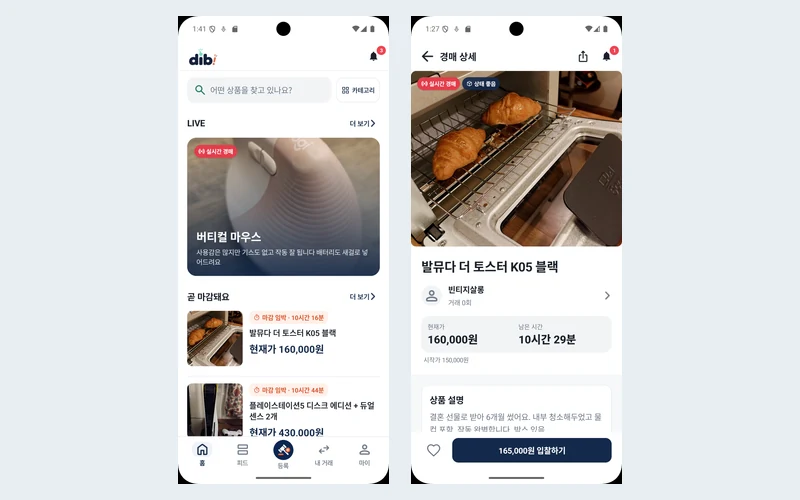
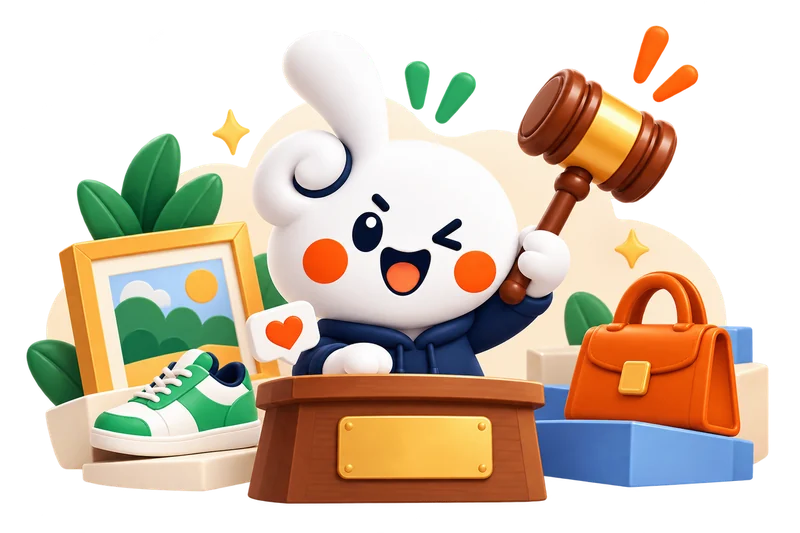
style: feature project artwork without borders

diff --git a/index.html b/index.html
@@ -5,7 +5,7 @@
   <meta name="viewport" content="width=device-width, initial-scale=1">
   <meta name="color-scheme" content="only light">
   <title>윤정 · 포트폴리오</title>
-  <link rel="stylesheet" href="./profile.css?v=17">
+  <link rel="stylesheet" href="./profile.css?v=18">
 </head>
 <body>
   <main>
@@ -120,7 +120,7 @@
         </header>
         <div class="project-overview">
           <div class="project-preview">
-            <img src="./assets/projects/soomgil/route.webp" alt="제주도 여행 장소와 손으로 그린 경로를 표시한 숨길 공동 일정 지도" loading="lazy">
+            <img src="./assets/projects/soomgil/preview.webp" alt="궁궐 야경을 배경으로 한 숨길의 여행 서비스 배너" loading="lazy">
           </div>
           <div class="project-info">
             <p>함께 여행할 사람들이 장소 카드를 넘기며 가고 싶은 곳을 고르면, 일행의 취향을 모아 여행지를 추천합니다. 추천받은 장소로 지도 위에서 여행 일정을 함께 짤 수 있습니다.</p>
@@ -149,7 +149,7 @@
         </header>
         <div class="project-overview">
           <div class="project-preview">
-            <img src="./assets/projects/baro/preview.webp" alt="바로영업 웹의 상담 문자 작성 화면과 모바일 앱의 약속 달력" loading="lazy">
+            <img src="./assets/projects/baro/preview.webp?v=2" alt="상담을 마치고 미소를 지으며 악수하는 두 사람" loading="lazy">
           </div>
           <div class="project-info">
             <p>보험설계사를 위한 고객 관리 서비스입니다. 전화가 오면 지난 상담 기록을 확인하고, 통화가 끝나면 상담 요점과 다음 연락 일정을 정리할 수 있습니다.</p>
@@ -176,7 +176,7 @@
         </header>
         <div class="project-overview">
           <div class="project-preview">
-            <img src="./assets/projects/iread/preview.webp" alt="그림을 보고 알맞은 문장을 고르는 아이리드 읽기 훈련 화면" loading="lazy">
+            <img src="./assets/projects/iread/preview.webp?v=2" alt="펼친 책 위에 아이리드 로고와 ‘난독증 훈련 보조 서비스’ 문구가 담긴 그림" loading="lazy">
           </div>
           <div class="project-info">
             <p>읽기에 어려움을 겪는 아동을 위한 읽기 훈련 서비스입니다. 아동이 글을 읽을 때의 시선과 발음을 분석해 맞춤형 활동을 제공하고, 교사가 학습 변화를 확인할 수 있도록 했습니다.</p>
@@ -204,7 +204,7 @@
         </header>
         <div class="project-overview">
           <div class="project-preview">
-            <img src="./assets/projects/dib/preview.webp" alt="dib 앱의 경매 홈과 상품별 현재가·입찰 화면" loading="lazy">
+            <img src="./assets/projects/dib/preview.webp?v=2" alt="경매 망치를 든 dib 마스코트와 운동화·가방 등 경매에 나온 물건들" loading="lazy">
           </div>
           <div class="project-info">
             <p>일반 경매와 실시간 방송으로 중고 물건을 사고파는 앱입니다. 구매자는 방송에서 상품을 확인하며 입찰하고, 낙찰 후 결제와 배송까지 한곳에서 진행할 수 있습니다.</p>

diff --git a/profile.css b/profile.css
@@ -42,7 +42,6 @@ h1 span {
   display: grid;
   place-items: center;
   aspect-ratio: 3 / 4;
-  border: 1px solid #d9dee3;
   border-radius: 4px;
   background: #f8f9fa;
 }
@@ -172,10 +171,9 @@ h3 { font-size: 1.125rem; line-height: 1.6; letter-spacing: -.035em; word-break:
   place-items: center;
   aspect-ratio: 16 / 10;
   overflow: hidden;
-  background: #f8f9fa;
-  border: 1px solid #d9dee3;
   border-radius: .25rem;
 }
+.project-preview:has(> .preview-placeholder) { background: #f8f9fa; }
 .project-preview > img { width: 100%; height: 100%; object-fit: contain; }
 .project-preview > .preview-placeholder { width: 24px; height: 24px; opacity: .35; }
 .project-info { line-height: 1.5; }
